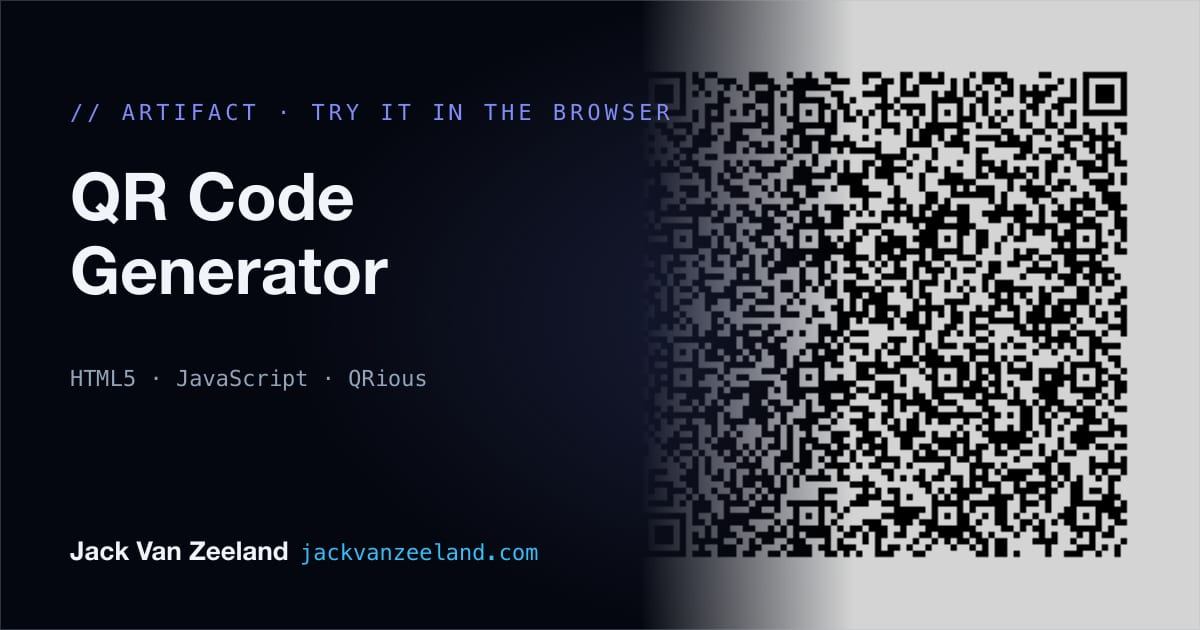
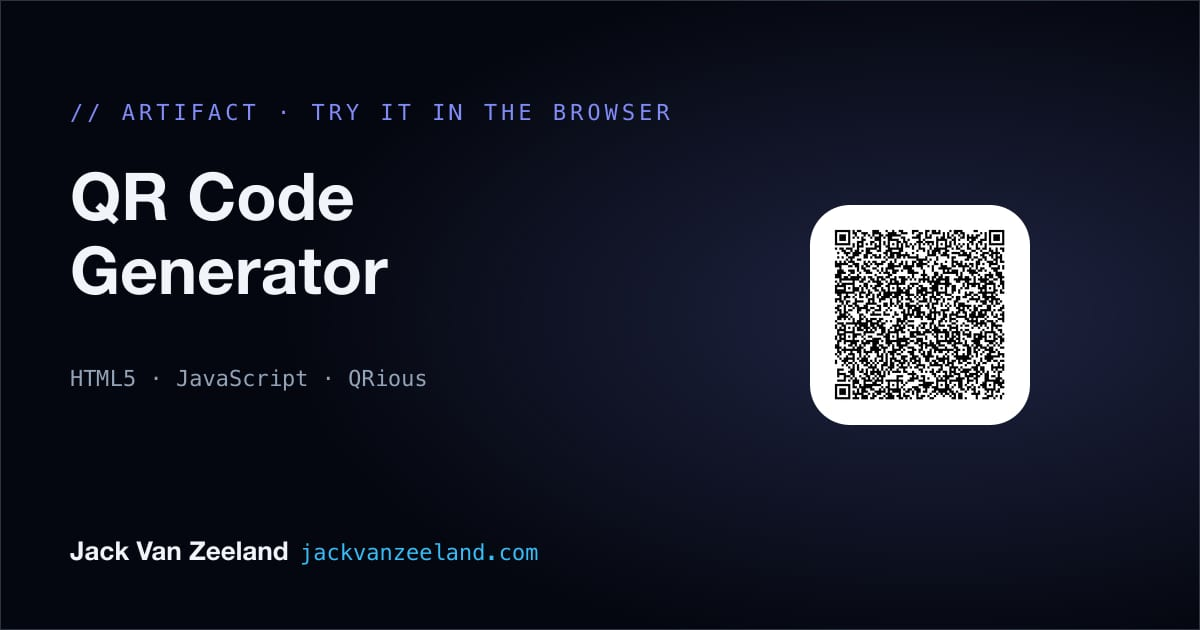
Auto-commit: 11 file(s) changed
- CLAUDE.md
  - public/og/projects/qr-code-generator.jpg
  - public/og/projects/wordle-solver.jpg
  - scripts/generate-og-images.ts
  - src/app/views/projects.ts
  - src/data/projects.ts
  - src/data/workItems.ts
  - src/styles/redesign/work.css
  - src/types/index.ts
  - src/utils/iconImage.ts
  - tests/views-projects.test.ts

diff --git a/src/data/projects.ts b/src/data/projects.ts
@@ -11,6 +11,7 @@ export const PROJECTS: Project[] = [
     tags: ["Finance", "Data", "Tools"],
     github_link: "",
     image: "https://budget.jackvanzeeland.com/logo.png",
+    imageStyle: "icon",
     page: "",
     is_interactive: true,
     featured: true,
@@ -29,6 +30,7 @@ export const PROJECTS: Project[] = [
     tags: ["Tools"],
     github_link: "",
     image: "https://journal.jackvanzeeland.com/apple-touch-icon.png",
+    imageStyle: "icon",
     page: "",
     is_interactive: true,
     featured: true,
@@ -47,6 +49,7 @@ export const PROJECTS: Project[] = [
     tags: ["Tools"],
     github_link: "",
     image: "https://lists.jackvanzeeland.com/icons/icon-192.png",
+    imageStyle: "icon",
     page: "",
     is_interactive: true,
     featured: true,
@@ -65,6 +68,7 @@ export const PROJECTS: Project[] = [
     tags: ["Tools"],
     github_link: "",
     image: "https://namekeep.jackvanzeeland.com/icons/apple-touch-icon.png",
+    imageStyle: "icon",
     page: "",
     is_interactive: true,
     featured: true,
@@ -83,6 +87,7 @@ export const PROJECTS: Project[] = [
     tags: ["Games", "Creative"],
     github_link: "",
     image: "https://woku.jackvanzeeland.com/icons/apple-touch-icon.png",
+    imageStyle: "icon",
     page: "",
     is_interactive: true,
     featured: true,
@@ -101,6 +106,7 @@ export const PROJECTS: Project[] = [
     tags: ["Sports", "Data"],
     github_link: "",
     image: "superBowlMain.png",
+    imageStyle: "cover",
     page: "",
     is_interactive: false,
     featured: true,
@@ -119,6 +125,7 @@ export const PROJECTS: Project[] = [
     tags: ["Finance", "Tools"],
     github_link: "",
     image: "mortgageSimulator.jpg",
+    imageStyle: "cover",
     page: "",
     is_interactive: true,
     youtube_link: "",
@@ -136,6 +143,7 @@ export const PROJECTS: Project[] = [
     tags: ["Games", "Data"],
     github_link: "",
     image: "wordleMain.png",
+    imageStyle: "icon",
     page: "wordle-solver",
     is_interactive: true,
     youtube_link: "",
@@ -155,6 +163,7 @@ export const PROJECTS: Project[] = [
     tags: ["Tools"],
     github_link: "",
     image: "partnerMatchingMain.jpeg",
+    imageStyle: "cover",
     page: "secret-santa",
     is_interactive: true,
     youtube_link: "",
@@ -172,6 +181,7 @@ export const PROJECTS: Project[] = [
     tags: ["Creative"],
     github_link: "",
     image: "BangerBank.png",
+    imageStyle: "cover",
     page: "lyric-animator",
     is_interactive: true,
     youtube_link: "",
@@ -189,6 +199,7 @@ export const PROJECTS: Project[] = [
     tags: ["Automation", "Finance"],
     github_link: "",
     image: "budgetingMain.jpeg",
+    imageStyle: "cover",
     page: "budgeting-automation",
     is_interactive: false,
     youtube_link: "",
@@ -208,6 +219,7 @@ export const PROJECTS: Project[] = [
     tags: ["Sports", "Data"],
     github_link: "https://github.com/jackvanzeeland/basketballLineupAnalysis",
     image: "basketballMain.jpeg",
+    imageStyle: "cover",
     page: "basketball-optimization",
     is_interactive: false,
     youtube_link: "",
@@ -228,6 +240,7 @@ export const PROJECTS: Project[] = [
     tags: ["Automation", "Creative"],
     github_link: "",
     image: "redditStories.jpeg",
+    imageStyle: "cover",
     page: "",
     is_interactive: false,
     youtube_link: "https://www.youtube.com/@redditStories_JVZ",
@@ -246,6 +259,7 @@ export const PROJECTS: Project[] = [
     tags: ["Tools", "Artifact"],
     github_link: "",
     image: "professional-qr-code-contact.png",
+    imageStyle: "icon",
     page: "qr-code-generator",
     is_interactive: true,
     youtube_link: "",
@@ -263,6 +277,7 @@ export const PROJECTS: Project[] = [
     tags: ["Automation", "Tools", "Artifact"],
     github_link: "",
     image: "uipath_logo.jpeg",
+    imageStyle: "icon",
     page: "uipath-queue-processor",
     is_interactive: true,
     youtube_link: "",
@@ -280,6 +295,7 @@ export const PROJECTS: Project[] = [
     tags: ["Creative", "Artifact"],
     github_link: "",
     image: "ai_generated_html.png",
+    imageStyle: "cover",
     page: "html-gems",
     is_interactive: true,
     youtube_link: "",

diff --git a/scripts/generate-og-images.ts b/scripts/generate-og-images.ts
@@ -17,7 +17,6 @@ import sharp from 'sharp';
 import { WORK_ITEMS, type WorkItem } from '../src/data/workItems';
 import { prerenderRoutes, cdnOwnedProjectPaths } from '../src/site/routes';
 import { resolveImageSrc } from '../src/utils/optimizedImage';
-import { isIconImage } from '../src/utils/iconImage';
 
 const ROOT = path.resolve(path.dirname(fileURLToPath(import.meta.url)), '..');
 const OUT = path.join(ROOT, 'public/og');
@@ -121,20 +120,31 @@ async function projectCard(item: WorkItem): Promise<Buffer> {
     if (item.image) {
         const src = resolveImageSrc(item.image);
         const img = await loadImage(src);
-        if (isIconImage(src)) {
-            // App icon: contained and rounded on the dark panel, like the cards
-            const icon = 220;
-            const rounded = await sharp(img)
-                .resize(icon, icon, { fit: 'contain', background: C.raise })
+        if (item.imageStyle === 'icon') {
+            // imageStyle "icon": contained and rounded on the dark panel, like the
+            // cards. Keeps the image's own aspect (square app tiles and wide logos
+            // like Wordle's both work) within a 340×220 box.
+            const fitted = await sharp(img)
+                .resize(340, 220, { fit: 'inside', withoutEnlargement: false })
+                .png()
+                .toBuffer({ resolveWithObject: true });
+            const { width: iw, height: ih } = fitted.info;
+            const radius = Math.round(Math.min(iw, ih) * 0.18);
+            const rounded = await sharp(fitted.data)
+                .ensureAlpha()
                 .composite([
                     {
-                        input: Buffer.from(`<svg width="${icon}" height="${icon}"><rect width="${icon}" height="${icon}" rx="40"/></svg>`),
+                        input: Buffer.from(`<svg width="${iw}" height="${ih}"><rect width="${iw}" height="${ih}" rx="${radius}"/></svg>`),
                         blend: 'dest-in'
                     }
                 ])
                 .png()
                 .toBuffer();
-            layers.push({ input: rounded, left: panelX + (panelW - icon) / 2, top: (H - icon) / 2 });
+            layers.push({
+                input: rounded,
+                left: Math.round(panelX + (panelW - iw) / 2),
+                top: Math.round((H - ih) / 2)
+            });
         } else {
             // Photo/artwork: full-bleed on the right, graded like the cards, and
             // alpha-faded at its left edge so it melts into the background

diff --git a/tests/views-projects.test.ts b/tests/views-projects.test.ts
@@ -1,6 +1,6 @@
 import { describe, it, expect, beforeEach } from 'vitest';
 import projectsView from '../src/app/views/projects';
-import { isIconImage } from '../src/utils/iconImage';
+import { PROJECTS } from '../src/data/projects';
 import { allWorkTags } from '../src/data/workItems';
 
 describe('projects view', () => {
@@ -24,15 +24,24 @@ describe('projects view', () => {
     });
 });
 
-describe('isIconImage', () => {
-    it('flags app icons and logos', () => {
-        expect(isIconImage('https://journal.jackvanzeeland.com/apple-touch-icon.png')).toBe(true);
-        expect(isIconImage('https://lists.jackvanzeeland.com/icons/icon-192.png')).toBe(true);
-        expect(isIconImage('uipath_logo.jpeg')).toBe(true);
+describe('thumbnail framing', () => {
+    it('every project declares an explicit imageStyle', () => {
+        for (const p of PROJECTS) {
+            expect(['icon', 'cover'], p.title).toContain(p.imageStyle);
+        }
     });
 
-    it('leaves photos and artwork full-bleed', () => {
-        expect(isIconImage('wordleMain.png')).toBe(false);
-        expect(isIconImage('partnerMatchingMain.jpeg')).toBe(false);
+    it('cards follow the declared style, not the file name', async () => {
+        document.body.innerHTML = '<main id="view-root"></main>';
+        const root = document.getElementById('view-root')!;
+        await projectsView.mount(root, {});
+        const iconTitles = [...root.querySelectorAll('.work-card')]
+            .filter((c) => c.querySelector('.work-card-img-icon'))
+            .map((c) => c.querySelector('.work-card-title')?.textContent);
+        const expected = PROJECTS.filter((p) => p.imageStyle === 'icon').map((p) => p.title);
+        expect(iconTitles.sort()).toEqual(expected.sort());
+        // Wordle's file name never matched the old heuristic; it's explicit now
+        expect(iconTitles).toContain('Wordle Algorithm Solver');
+        projectsView.unmount();
     });
 });

diff --git a/src/data/workItems.ts b/src/data/workItems.ts
@@ -5,7 +5,7 @@
  */
 
 import { PROJECTS } from './projects';
-import type { Project } from '../types';
+import type { ImageStyle, Project } from '../types';
 
 export type WorkTool =
     | 'wordle-solver'
@@ -25,6 +25,7 @@ export interface WorkItem {
     technologies: string[];
     tags: string[];
     image?: string;
+    imageStyle: ImageStyle;
     featured: boolean;
     links: {
         github?: string;
@@ -69,6 +70,7 @@ function fromProject(project: Project): WorkItem {
         technologies: project.technologies,
         tags: project.tags,
         image: project.image || undefined,
+        imageStyle: project.imageStyle,
         featured: Boolean(project.featured),
         links: {
             github: project.github_link || undefined,

diff --git a/src/app/views/projects.ts b/src/app/views/projects.ts
@@ -12,7 +12,6 @@ import {
   workItemHref,
 } from "../../data/workItems";
 import { createOptimizedPicture, resolveImageSrc } from "../../utils/optimizedImage";
-import { isIconImage } from "../../utils/iconImage";
 import "../../styles/redesign/work.css";
 
 function el<K extends keyof HTMLElementTagNameMap>(
@@ -35,7 +34,7 @@ function renderCard(item: WorkItem): HTMLAnchorElement {
   card.setAttribute("data-reveal", "");
 
   const imgWrap = el("div", "work-card-img");
-  if (item.image && isIconImage(item.image)) {
+  if (item.image && item.imageStyle === "icon") {
     imgWrap.classList.add("work-card-img-icon");
   }
   if (item.image) {

diff --git a/src/types/index.ts b/src/types/index.ts
@@ -1,3 +1,5 @@
+export type ImageStyle = 'icon' | 'cover';
+
 export interface Project {
     title: string;
     description: string;
@@ -12,6 +14,12 @@ export interface Project {
     tiktok_link: string;
     page: string;
     image: string;
+    /**
+     * How the thumbnail is framed on cards and share images:
+     * "icon"  — logo / app tile, shown contained and centered on the dark panel
+     * "cover" — photo or artwork, cropped full-bleed
+     */
+    imageStyle: ImageStyle;
     status?: string;
     featured?: boolean;
     live_demo?: string;

diff --git a/src/styles/redesign/work.css b/src/styles/redesign/work.css
@@ -105,7 +105,7 @@
   transform: scale(1.03);
 }
 
-/* App icons / logos: contained on the panel, not cropped full-bleed */
+/* imageStyle: "icon" (src/data/projects.ts) — contained on the panel, not cropped */
 .work-card-img-icon {
   aspect-ratio: 16 / 9;
   display: flex;
@@ -126,7 +126,7 @@
   max-width: 60%;
   aspect-ratio: auto;
   object-fit: contain;
-  border-radius: 18%;
+  border-radius: 14px; /* fixed, so wide logos (Wordle) keep round corners too */
   box-shadow: 0 8px 28px rgba(0, 0, 0, 0.45);
 }
 

diff --git a/CLAUDE.md b/CLAUDE.md
@@ -53,6 +53,10 @@ Run `lint` + `typecheck` + `test` before calling anything done — none of them 
   `src/data/projects.ts`. New routes or projects get picked up automatically;
   `tests/seo.test.ts` checks length limits, uniqueness, and that each page's
   `public/og/` image exists.
+- **Every project declares `imageStyle`** (`"icon"` for logos and app tiles shown
+  contained, `"cover"` for photos and artwork cropped full-bleed) in
+  `src/data/projects.ts`. Cards and share images both read it, and TypeScript
+  requires it. After changing it, rerun `npm run og:images`.
 - **Reveal animations are gated on `.js`** (an inline script in `index.html`) so
   prerendered content stays visible without JavaScript. Keep any new hide-until-JS
   CSS behind `.js`.
